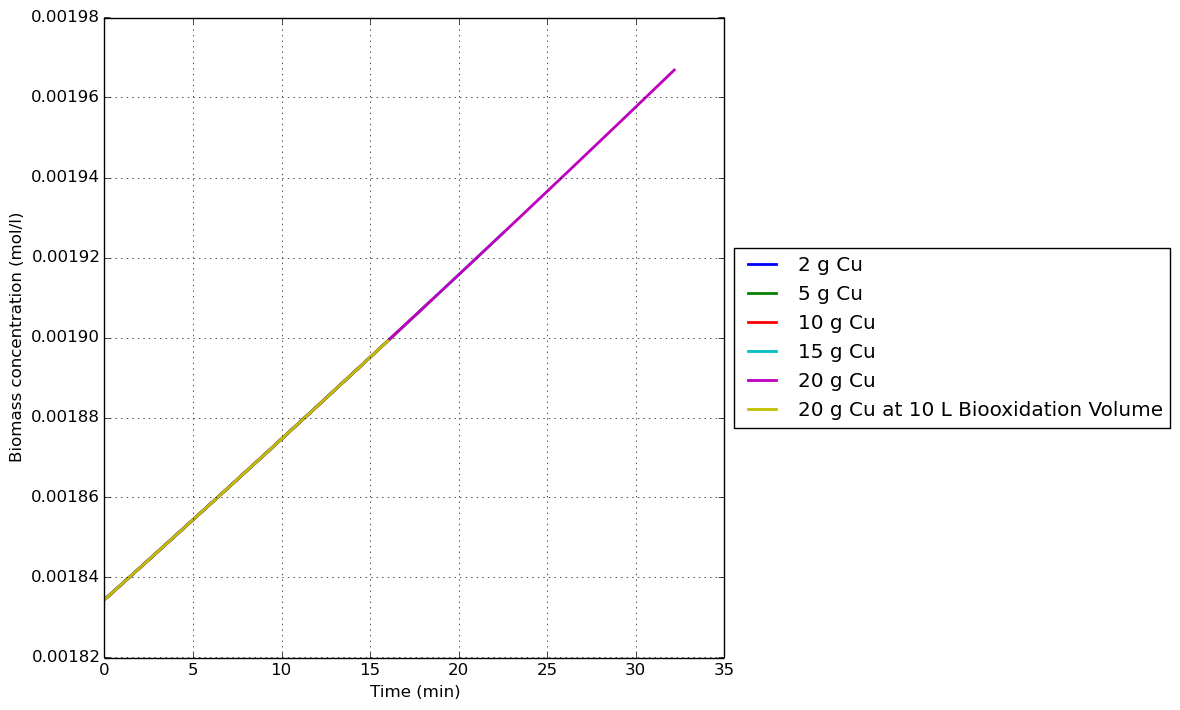
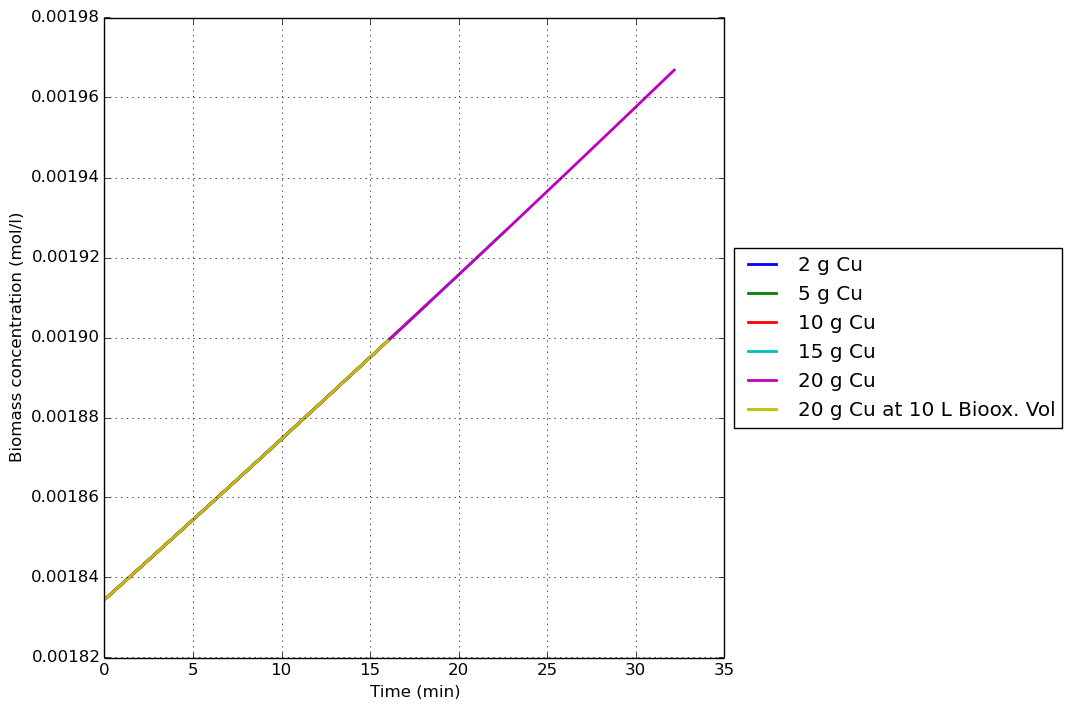
replotting

diff --git a/masters/calculations/management/commands/sensitivity_analysis.py b/masters/calculations/management/commands/sensitivity_analysis.py
@@ -113,9 +113,9 @@ class Command(BaseCommand):
 
         sys = system.System(10, 1, FERRIC_FERROUS, IRON, initial_metals={"Cu": 20})
         sys.build_cyclic_tanks()
-        output["20 g Cu at 10 L Biooxidation Volume"] = sys.run()
+        output["20 g Cu at 10 L Bioox. Vol"] = sys.run()
 
-        analysis_list.append((20, "20 g Cu at 10 L Biooxidation Volume"))
+        analysis_list.append((20, "20 g Cu at 10 L Bioox. Vol"))
         self.plot_sensitivity_analysis(output, analysis_list)
 
     def ferric_ferrous_sensitivity_analysis(self):
@@ -178,7 +178,7 @@ class Command(BaseCommand):
             line, = fig_subplot.plot(ferric_biox[item[1]]["time"], ferric_biox[item[1]]["ferric"], label=item[1])
             line.set_linewidth(2)
         # plt.legend(ncol=2, mode="expand", loc=3, borderaxespad=0., bbox_to_anchor=(0., 1.02, 1., .102))
-        plt.legend(loc='center left', bbox_to_anchor=(1, 0.5))
+        plt.legend(loc='center left', bbox_to_anchor=(1, 0.5), prop={"size": 6})
         fig.savefig('simulation_figures/'+self.simulate+'/ferric_ion_concentration_biooxidation_reactor.png',
                 bbox_inches='tight')
 
